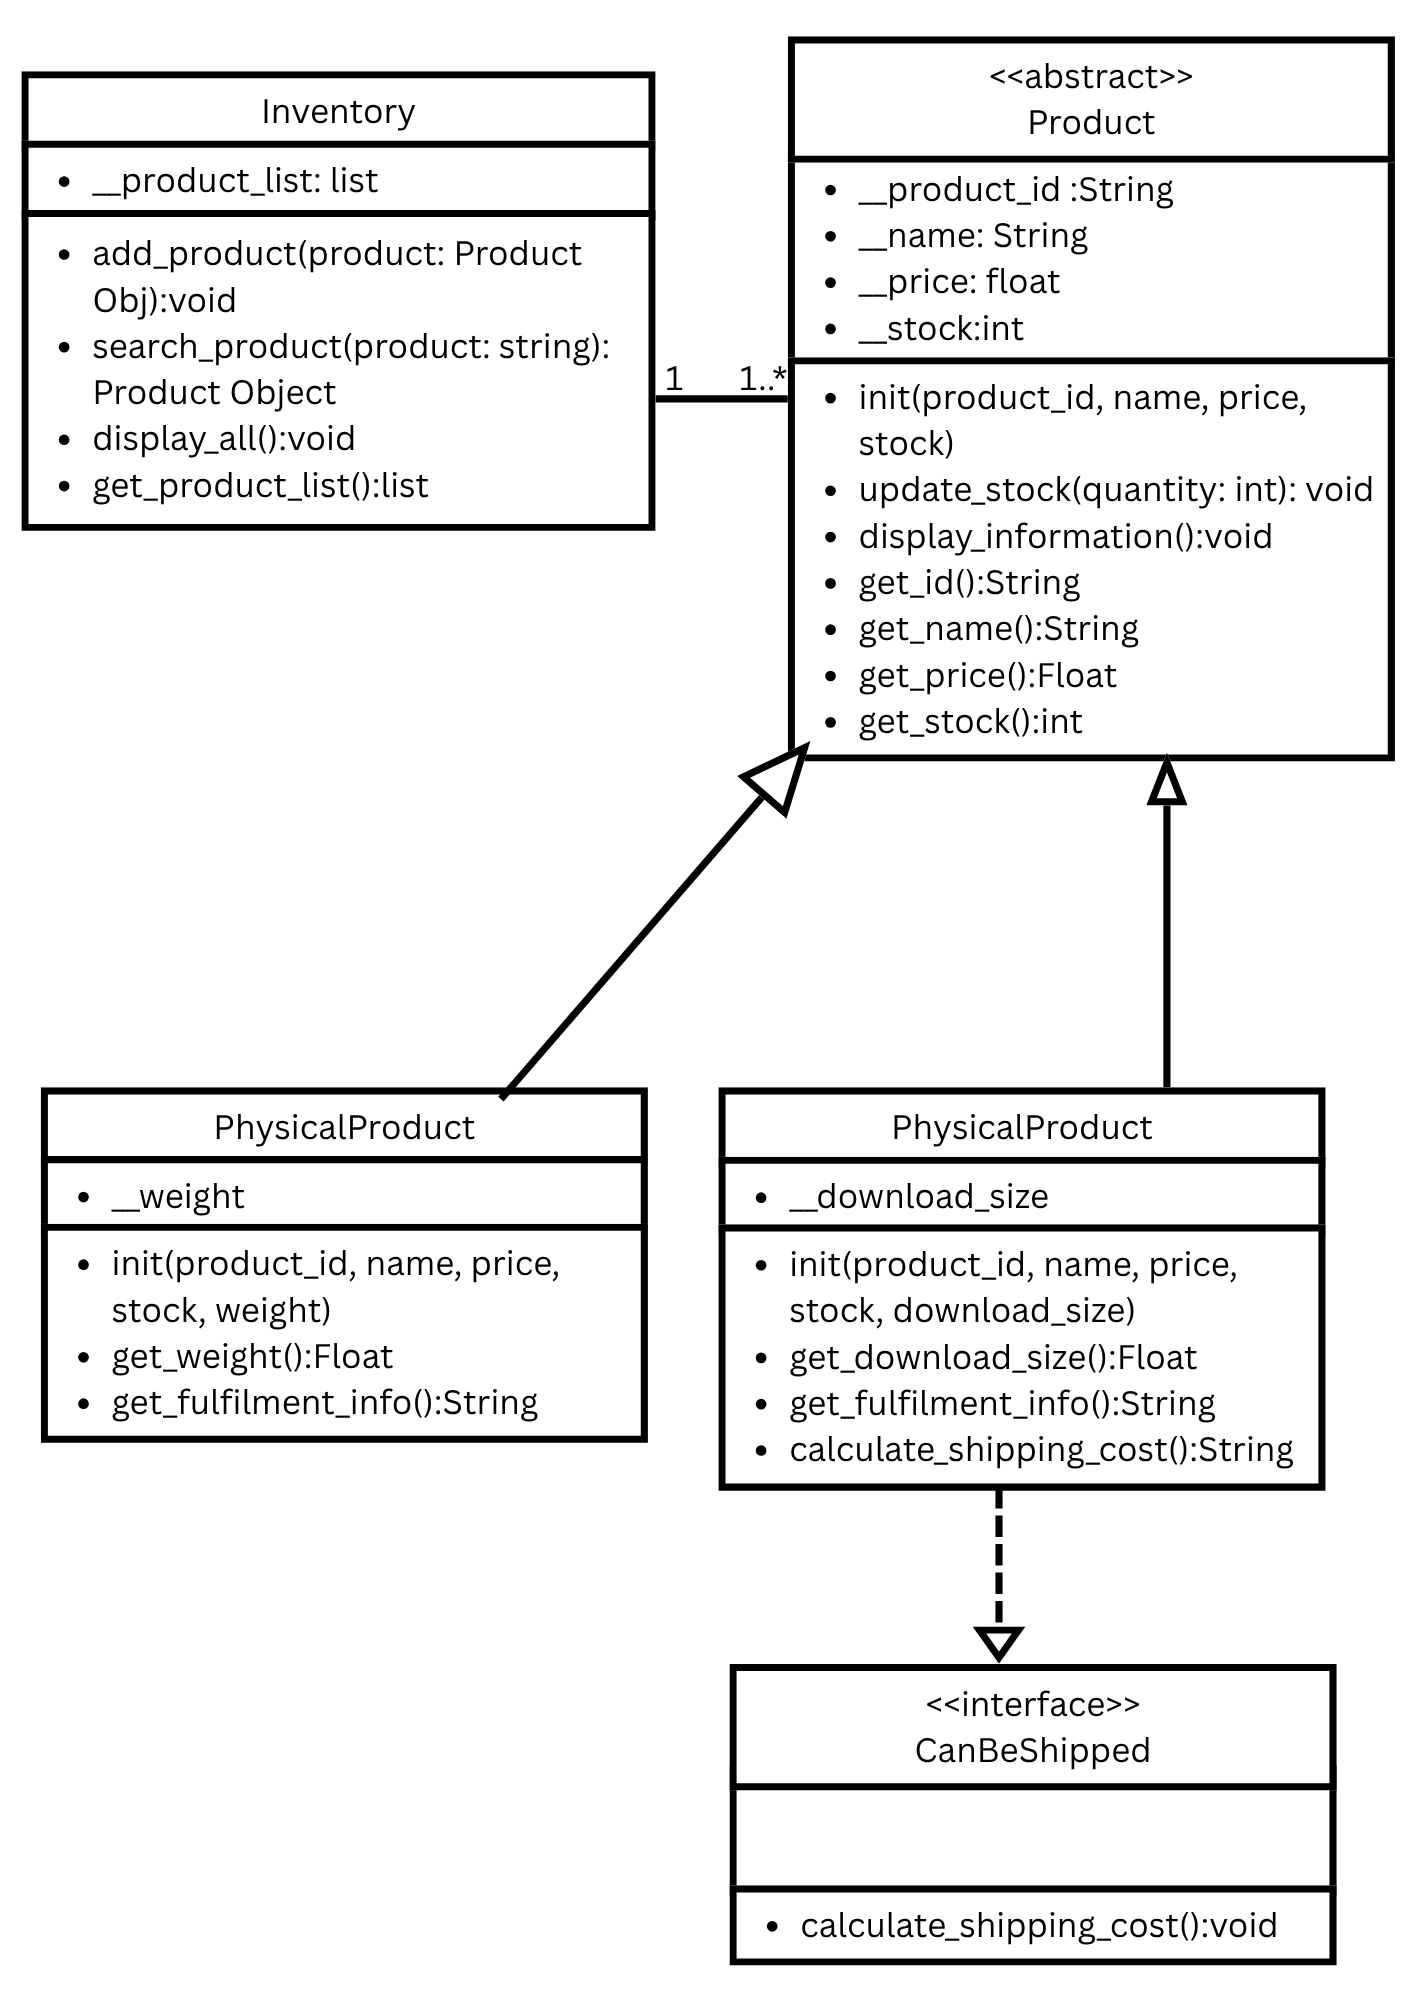
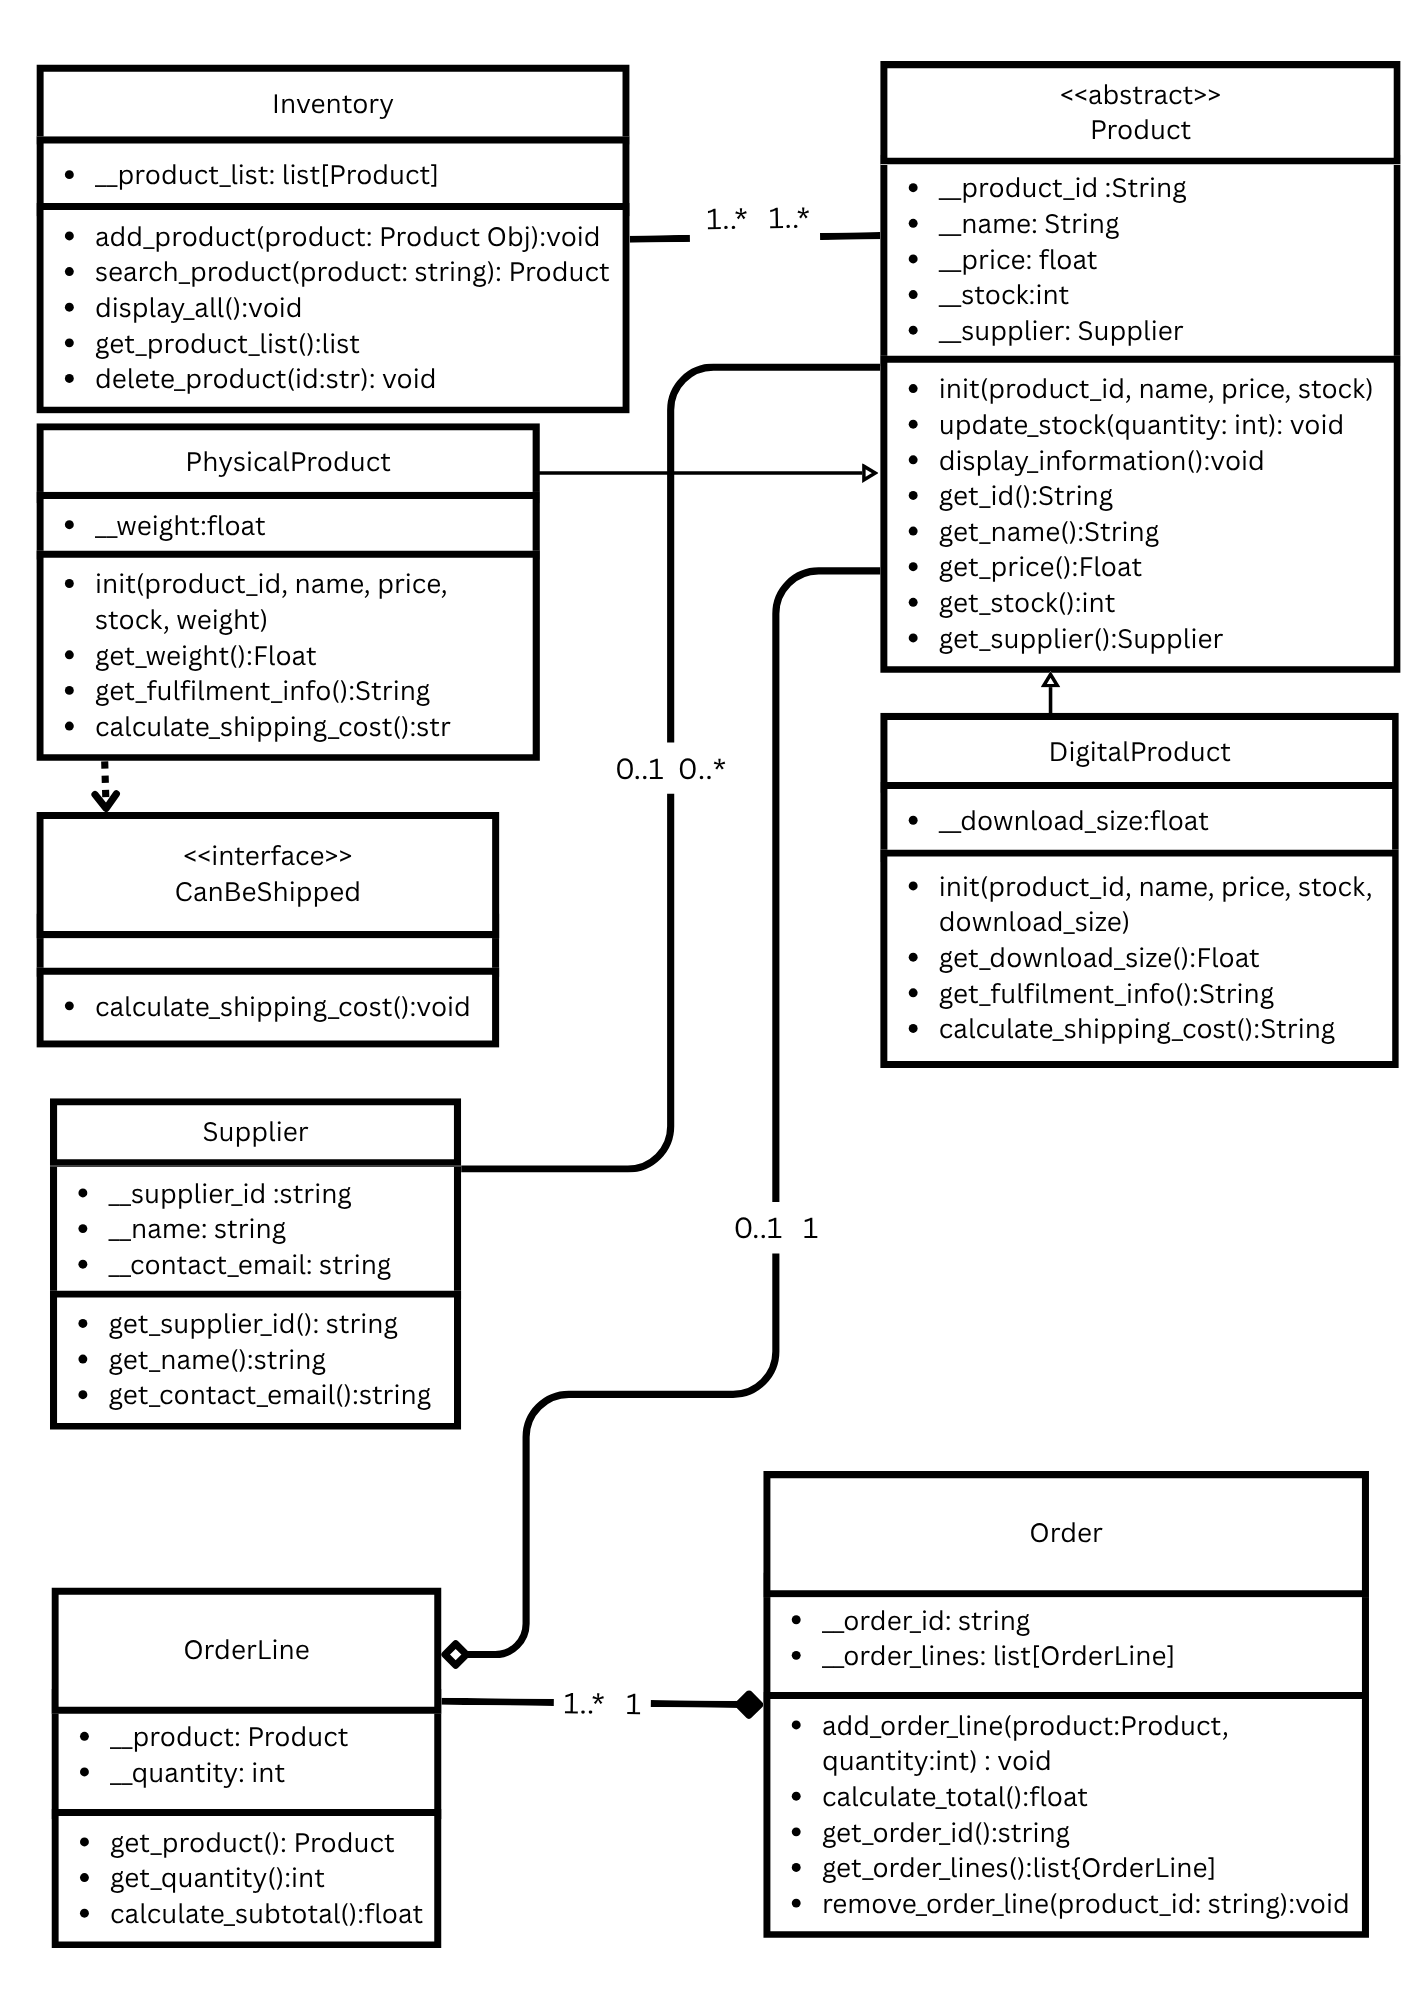
Added types to all input and output as well as updated UML diagram

Changed region(s): [[0.0, 0.0, 0.9958, 0.992]]

diff --git a/lab_main/Product.py b/lab_main/Product.py
@@ -10,30 +10,29 @@ class Product(ABC):
         self.__stock = stock
         self.__supplier = supplier
 
-    def update_stock(self, quantity):
+    def update_stock(self, quantity:int) -> None:
         self.__stock = quantity
-
-    def display_information(self):
+        
+    def display_information(self) -> None:
         print("\n--------------------------------")
         print(f"ID: {self.__product_id}")
         print(f"Name: {self.__name}")
         print(f"Price: ${self.__price}")
         print(f"Stock: {self.__stock}")
 
-
-    def get_id(self):
+    def get_id(self) -> str:
         return self.__product_id
 
-    def get_name(self):
+    def get_name(self) -> str:
         return self.__name
 
-    def get_price(self):
+    def get_price(self) -> float:
         return self.__price
 
-    def get_stock(self):
+    def get_stock(self) -> int:
         return self.__stock
 
-    def get_supplier(self):
+    def get_supplier(self) -> Supplier:
         return self.__supplier
     
     @abstractmethod
@@ -44,19 +43,18 @@ class PhysicalProduct(Product, CanBeShipped.CanBeShipped):
     def __init__(self, product_id: str, name: str, price: float, stock: int, supplier: Supplier, weight: float):
         super().__init__(product_id, name, price, stock, supplier)
         self.__weight = weight
-        
 
-    def get_weight(self):
+    def get_weight(self) -> float:
         return self.__weight
 
-    def display_information(self):
+    def display_information(self) -> None:
         super().display_information()
         print(f"Weight: {self.__weight}Kgs")
 
-    def get_fulfilment_info(self):
+    def get_fulfilment_info(self) -> str:
         return f"{self.get_name()} requires physical shipping"
 
-    def calculate_shipping_cost(self):
+    def calculate_shipping_cost(self) -> str:
         return f"It cost ${int(self.get_weight())*2} to ship {self.get_name()}"
 
 class DigitalProduct(Product):
@@ -64,12 +62,14 @@ class DigitalProduct(Product):
         super().__init__(product_id, name, price, stock, supplier)
         self.__download_size = download_size
 
-    def get_download_size(self):
+    def get_download_size(self) -> float:
         return self.__download_size
 
-    def display_information(self):
+    def display_information(self) -> str:
         super().display_information()
         print(f"Download Size: {self.__download_size}MBs")
 
-    def get_fulfilment_info(self):
-        return f"{self.get_name()} is delivered digitally"
+    def get_fulfilment_info(self) -> str:
+        return f"{self.get_name()} is digital"
+
+

diff --git a/lab_main/classes_manager.py b/lab_main/classes_manager.py
@@ -18,14 +18,14 @@ def add_product(inventory):
         price = input("Price: ")
         quantity = input("Stock Quantity: ")
         weight = input("Weight: ")
-        product = PhysicalProduct(id, name, price, quantity, weight)
+        product = PhysicalProduct(id, name, price, quantity, new_supplier, weight)
     elif product_type == "Digital":
         id = input("Product ID: ")
         name = input("Product Name: ")
         price = input("Price: ")
         quantity = input("Stock Quantity: ")
         download_size = input("Download Size: ")
-        product = DigitalProduct(id, name, price, quantity, download_size)
+        product = DigitalProduct(id, name, price, quantity, new_supplier, download_size)
     else:
         print("Unknown product type. Try Again.")
     inventory.add_product(product)
@@ -99,9 +99,9 @@ def load_inventory(inventory):
                     if id is not None:
                         values = json_data.get(id)
                         if values["Type"] == "Physical":
-                            product = PhysicalProduct(id, values["Name"], values["Price"], values["Stock"], values["Weight"])
+                            product = PhysicalProduct(id, values["Name"], values["Price"], values["Stock"], None, values["Weight"])
                         if values["Type"] == "Digital":
-                            product = DigitalProduct(id, values["Name"], values["Price"], values["Stock"], values["Download Size"])
+                            product = DigitalProduct(id, values["Name"], values["Price"], values["Stock"], None, values["Download Size"])
                         inventory.add_product(product)
                 return inventory 
             except:
@@ -111,19 +111,9 @@ def load_inventory(inventory):
         new_file.close()
         return inventory
 
-supp = Supplier("id", "name", "email")
-order_1 = Order("OR_1")
-product_1 = PhysicalProduct("P0001", "Laptop", 20, 20, supp, 2)
-product_2 = PhysicalProduct("P0002", "Mouse", 20, 20, supp, 2)
-order_1.add_order_line(product_1, 10)
-order_1.add_order_line(product_2, 10)
-print(order_1.get_order_lines()[0])
-print(order_1.get_order_lines()[1])
-print(f"Total cost of order: {order_1.calculate_total()}")
-order_2 = Order("OR_2")
-order_2.add_order_line(product_1, 10)
-order_1.remove_order_line("P0001")
-order_1.calculate_total()
+new_supplier = Supplier("S0001", "Supplier 1", "first.supplies@gmail.com")
+
+
 
 print("========================================")
 print("INVENTORY MANAGEMENT SYSTEM")

diff --git a/lab_main/Inventory.py b/lab_main/Inventory.py
@@ -4,26 +4,27 @@ class Inventory:
     def __init__(self):
         self.__product_list: list[Product] = []
 
-    def add_product(self, product:Product):
+    def add_product(self, product:Product) -> None:
         self.__product_list.append(product)
 
-    def delete_product(self, id:str):
+    def delete_product(self, id:str) -> None:
         self.__product_list.remove(self.search_product(id))
 
-    def search_product(self, id:str):
+    def search_product(self, id:str) -> Product | None:
         for things in self.__product_list:
             if things.get_id() == id:
                 return things
         print("Item not found")
         return
 
-    def display_all(self):
+    def display_all(self) -> None:
         print("\n")
         print("--------------------------------")
         print("Current Inventory")
         for product in self.__product_list:
             product.display_information()
+            print(product.get_fulfilment_info())
         print("--------------------------------")
 
-    def get_product_list(self):
+    def get_product_list(self) -> list:
         return self.__product_list

diff --git a/lab_main/Order.py b/lab_main/Order.py
@@ -14,16 +14,15 @@ class Order():
         for order_line in self.__order_lines:
             print(f"The cost of {order_line.get_product().get_name()} is {order_line.get_product().get_price()}")
             total += order_line.calculate_subtotal()
-
         return total
 
-    def get_order_id(self):
+    def get_order_id(self) -> str:
         return self.__order_id
 
-    def get_order_lines(self):
+    def get_order_lines(self) -> list:
         return self.__order_lines
 
-    def remove_order_line(self, product_id):
+    def remove_order_line(self, product_id:str) -> None:
         for order_line in self.__order_lines:
             if order_line.get_product().get_id() == product_id:
                 print(f"{order_line.get_product().get_name()} has been removed")

diff --git a/lab_main/Supplier.py b/lab_main/Supplier.py
@@ -4,11 +4,11 @@ class Supplier:
         self.__name = name
         self.__contact_email = contact_email
 
-    def get_supplier_id(self):
+    def get_supplier_id(self) -> str:
         return self.__supplier_id
 
-    def get_name(self):
+    def get_name(self) -> str:
         return self.__name
 
-    def get_contact_email(self):
+    def get_contact_email(self) -> str:
         return self.__contact_email

diff --git a/lab_main/OrderLine.py b/lab_main/OrderLine.py
@@ -6,10 +6,10 @@ class OrderLine():
         self.__product = product
         self.__quantity = quantity
 
-    def get_product(self):
+    def get_product(self) -> Product:
         return self.__product
 
-    def get_quantity(self):
+    def get_quantity(self) -> int:
         return self.__quantity
 
     def calculate_subtotal(self) -> float:
